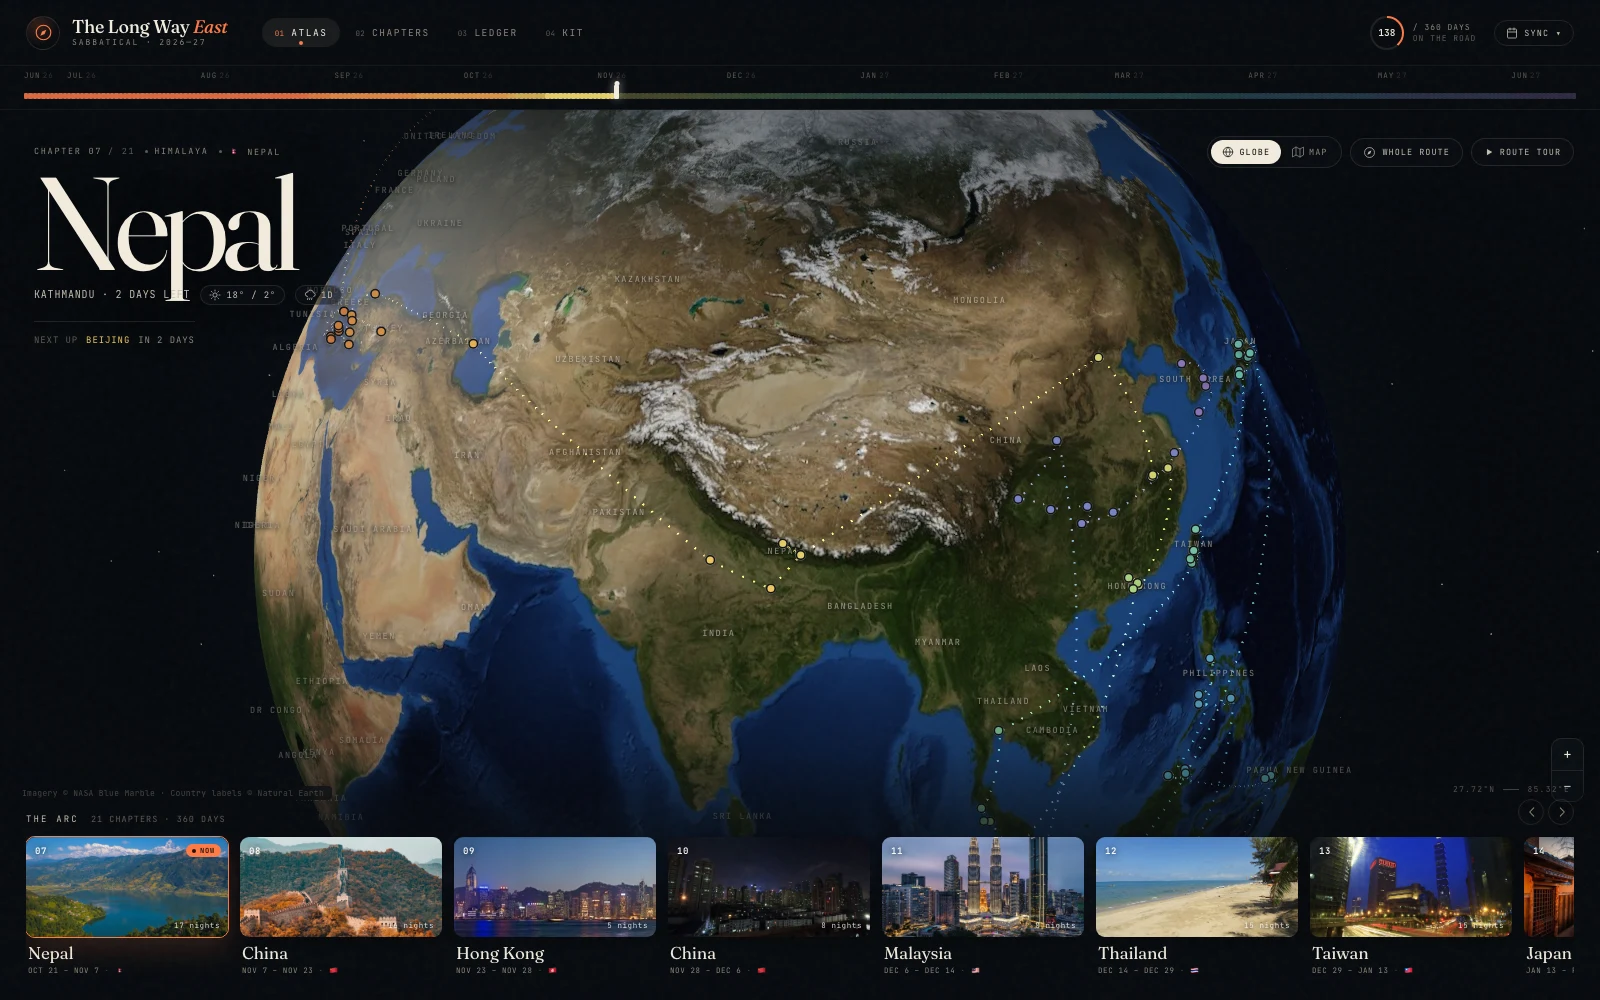
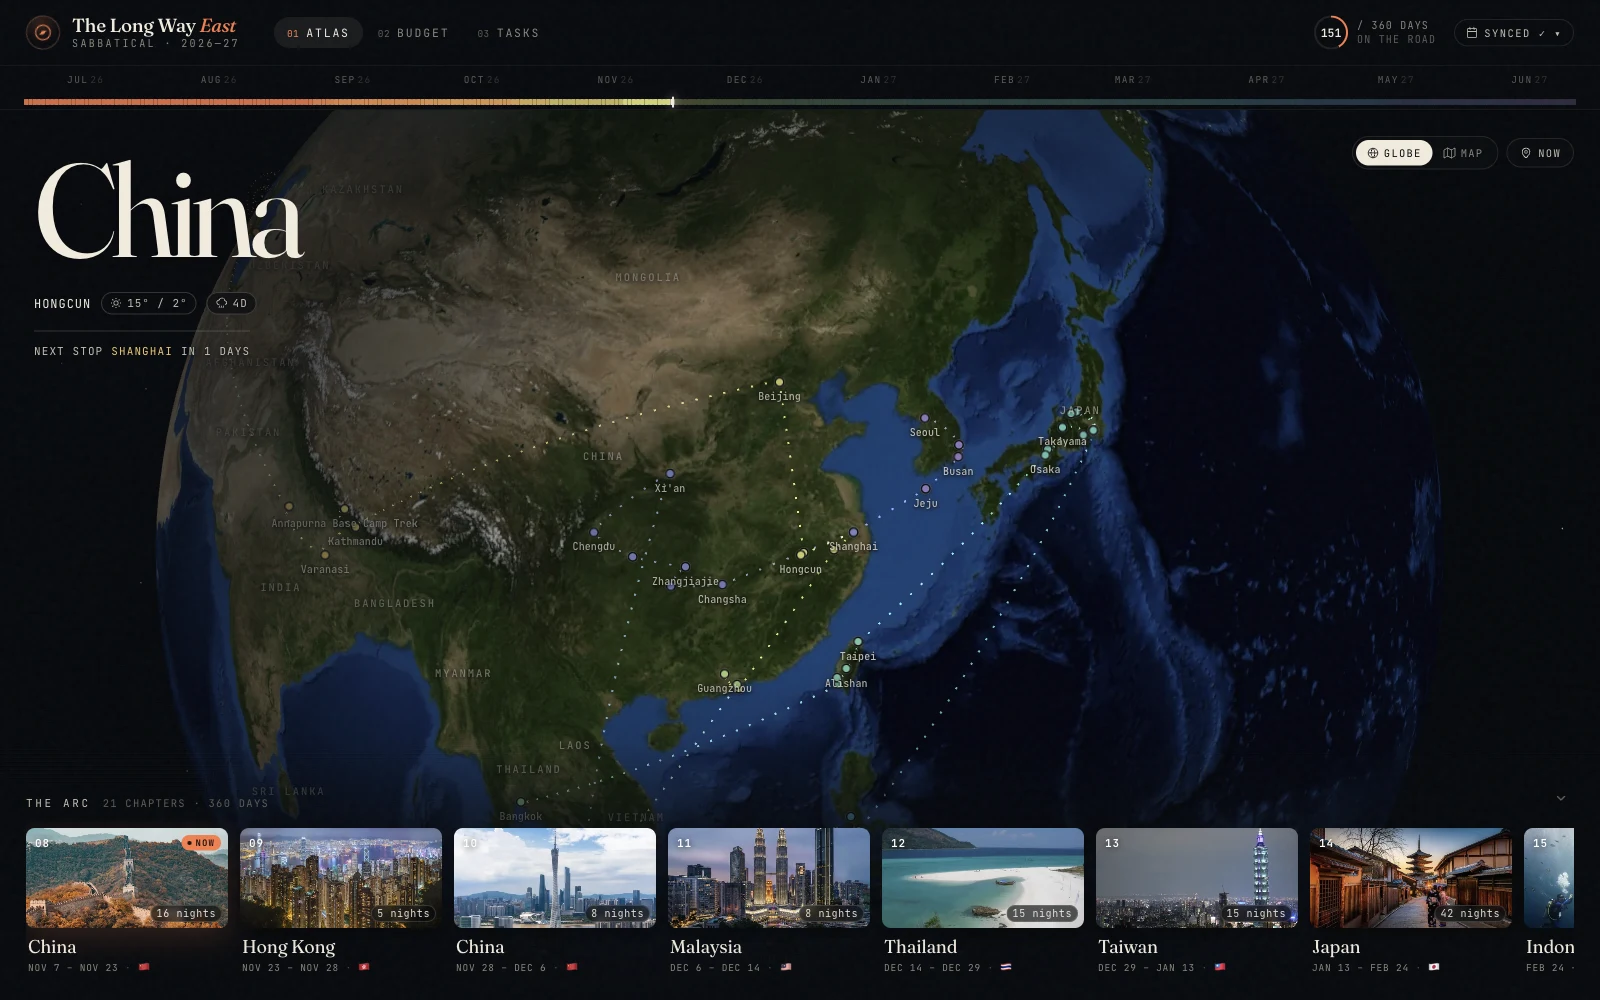
Use a live screenshot for The Long Way East

diff --git a/public/index.html b/public/index.html
@@ -87,7 +87,7 @@
           <div class="tags"><span>travel</span><span>public</span></div>
         </div>
         <a class="media media-wide" href="https://sabbatical.jeitinhovibe.online" target="_blank" rel="noopener" aria-label="Open The Long Way East">
-          <img src="/assets/projects/sabbatical.webp" alt="The Long Way East night atlas showing a 3D globe over Nepal, the Kathmandu chapter in giant type, and the chapter reel" loading="lazy" width="1600" height="1000">
+          <img src="/assets/projects/sabbatical.webp" alt="The Long Way East night atlas showing a 3D globe over China, the Hongcun chapter in giant type, and the chapter reel" loading="lazy" width="1600" height="1000">
           <span class="media-badge">live &amp; spinning</span>
         </a>
         <div class="card-body">
